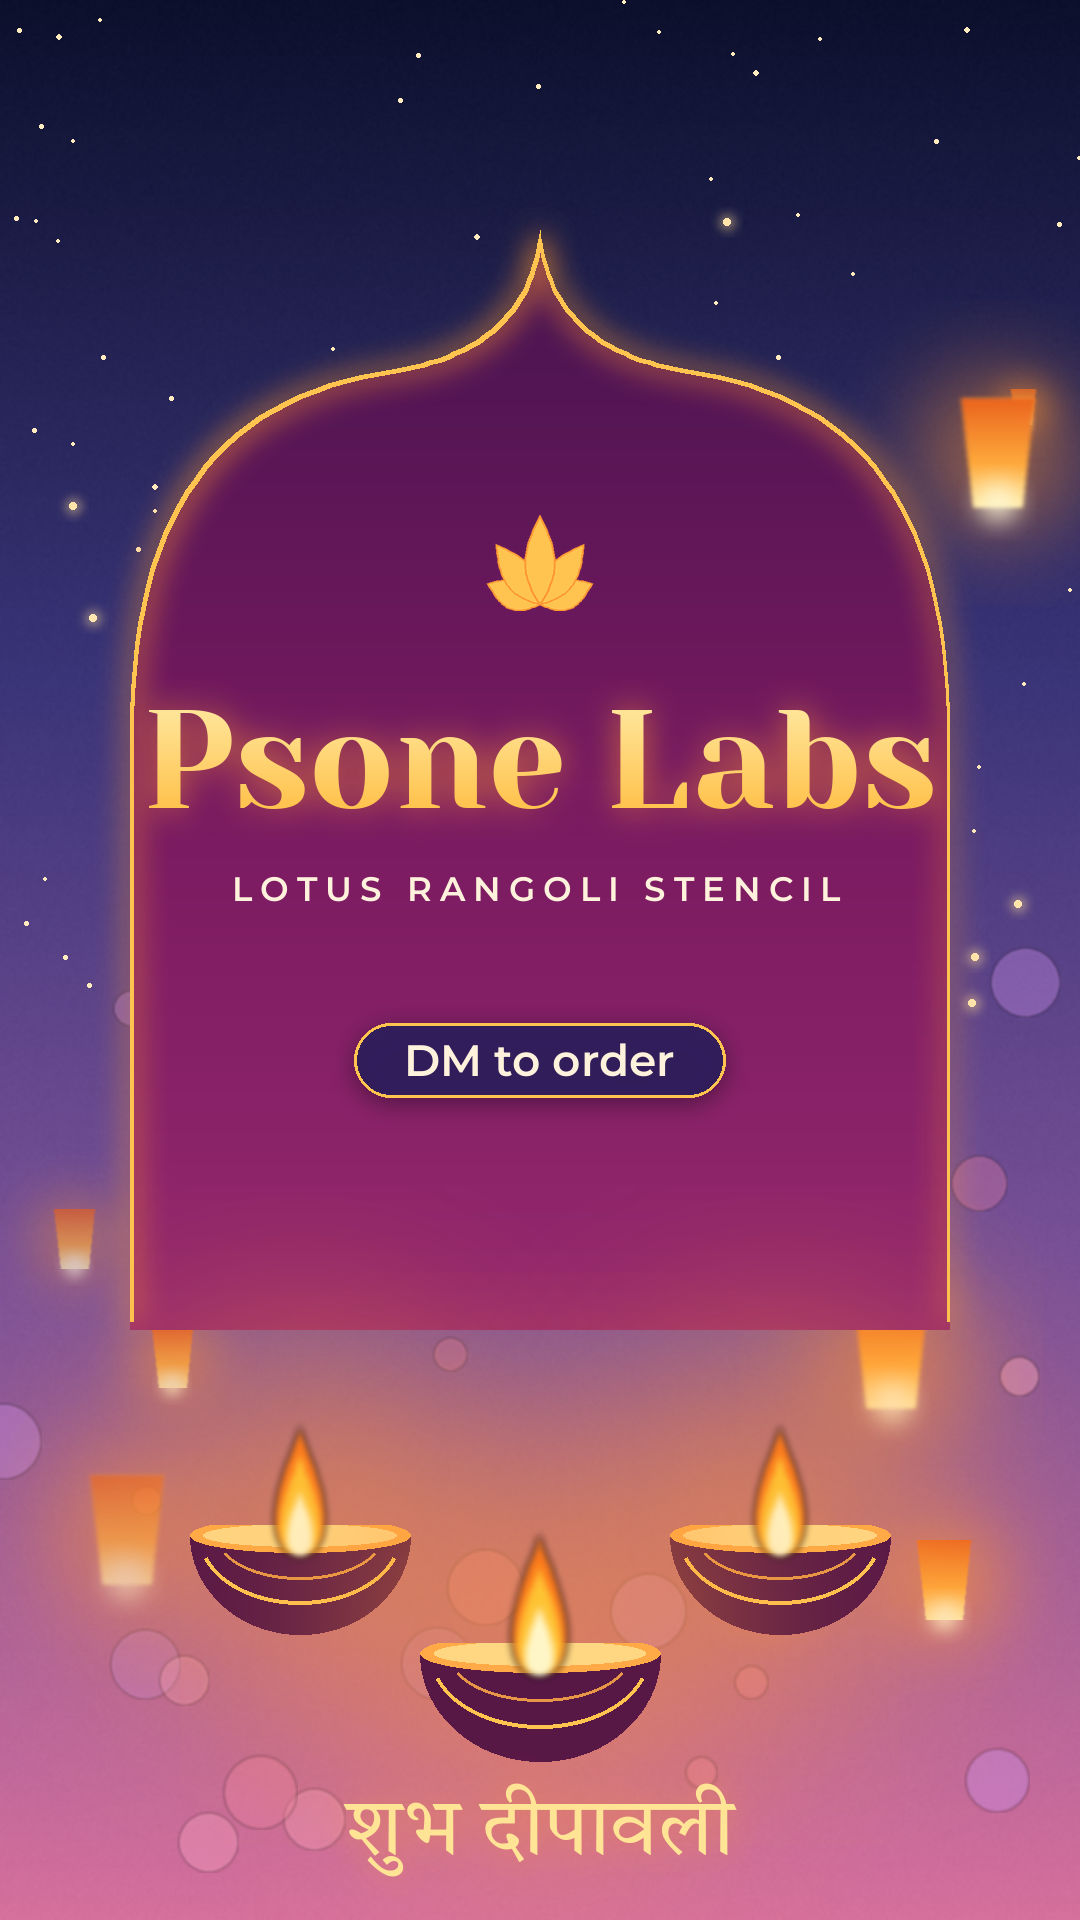
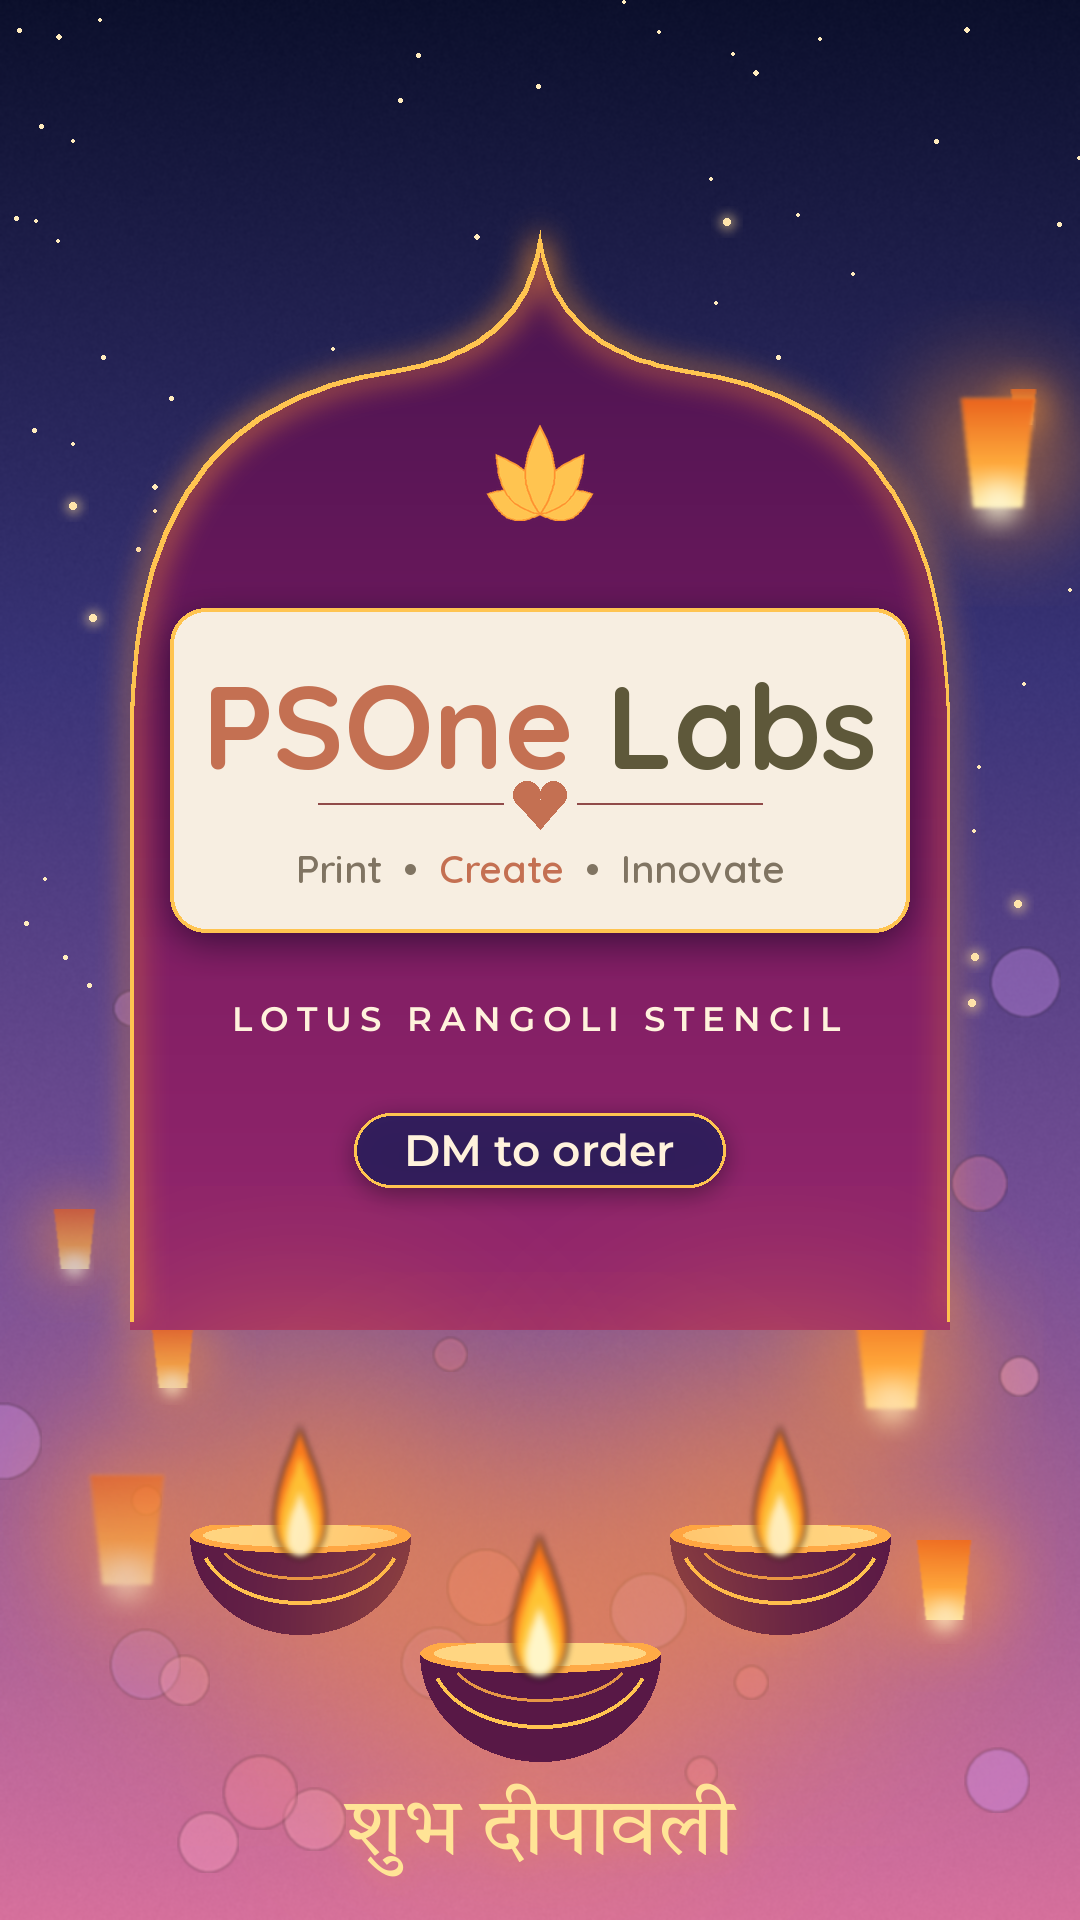
Lotus style frames: PSOne Labs brand lock-up and spelling
Claude-Session: https://claude.ai/code/session_01TVCvQsL4S7ttCtVD8bcYk5

Changed region(s): [[0.1222, 0.2188, 0.8861, 0.5], [0.3056, 0.5312, 0.6722, 0.625]]

diff --git a/tools/style_frames_lotus01.py b/tools/style_frames_lotus01.py
@@ -4,7 +4,7 @@ usage: cd tools && python3 style_frames_lotus01.py <workdir> <outdir>
 <workdir>/src holds L3.mp4 L4.mp4 L5.mp4 (VID-20261025-WA0003/4/5), plus fonts/ and music/ as for render_reel01_night.py.
 """
 import os, subprocess, sys
-from PIL import Image
+from PIL import Image, ImageDraw, ImageFont
 
 import render_diwali01 as R
 import render_reel01_night as N
@@ -12,6 +12,46 @@ import style_frames_teaser01 as T
 from render_diwali01 import W, H, paste_center
 
 BASE, OUTDIR = sys.argv[1], sys.argv[2]
+
+
+TERRA = (196, 112, 82)    # PSOne Labs brand terracotta
+OLIVE = (94, 88, 58)       # brand olive
+TAUPE = (128, 116, 98)
+BEIGE = (247, 238, 225)
+
+
+def quick(size, bold=True):
+    return ImageFont.truetype(f"{BASE}/fonts/quicksand_{'b' if bold else 'sb'}.ttf", size)
+
+
+def brand_card(w=740):
+    """PSOne Labs logo lock-up as on the brand's own posts: terracotta 'PSOne' + olive 'Labs' on warm beige,
+    a heart divider and 'Print • Create • Innovate'; thin gold edge so it sits in the night style."""
+    h = int(w * 0.44)
+    im = Image.new("RGBA", (w, h), (0, 0, 0, 0))
+    d = ImageDraw.Draw(im)
+    d.rounded_rectangle((0, 0, w - 1, h - 1), radius=36, fill=BEIGE + (255,), outline=T.GOLD + (255,), width=4)
+    f1 = quick(int(w * 0.16))
+    a, b = "PSOne", " Labs"
+    wa, wb = d.textlength(a, font=f1), d.textlength(b, font=f1)
+    x0, y = (w - wa - wb) / 2, h * 0.36
+    d.text((x0, y), a, font=f1, fill=TERRA, anchor="lm")
+    d.text((x0 + wa, y), b, font=f1, fill=OLIVE, anchor="lm")
+    yd = h * 0.6
+    d.line((w * 0.2, yd, w * 0.45, yd), fill=TERRA + (160,), width=2)
+    d.line((w * 0.55, yd, w * 0.8, yd), fill=TERRA + (160,), width=2)
+    r = w * 0.018  # heart
+    d.ellipse((w / 2 - 2 * r, yd - 1.6 * r, w / 2, yd + 0.4 * r), fill=TERRA)
+    d.ellipse((w / 2, yd - 1.6 * r, w / 2 + 2 * r, yd + 0.4 * r), fill=TERRA)
+    d.polygon([(w / 2 - 1.95 * r, yd - 0.2 * r), (w / 2 + 1.95 * r, yd - 0.2 * r), (w / 2, yd + 2 * r)], fill=TERRA)
+    f2 = quick(int(w * 0.054), bold=False)
+    parts = [("Print", TAUPE), ("  •  ", TAUPE), ("Create", TERRA), ("  •  ", TAUPE), ("Innovate", TAUPE)]
+    tw = sum(d.textlength(t, font=f2) for t, _ in parts)
+    x, y2 = (w - tw) / 2, h * 0.8
+    for t, c in parts:
+        d.text((x, y2), t, font=f2, fill=c, anchor="lm")
+        x += d.textlength(t, font=f2)
+    return R.with_shadow(im, offset=(0, 10), blur=18, alpha=150, color=(10, 4, 30))
 
 
 def still(name, t):
@@ -42,7 +82,7 @@ def frame_printer():
     f.alpha_composite(N.night_frame(aw, ah, ay, 25))
     paste_center(f, T.glow_text("Pesh hai hamara", T.allura(110), T.CREAM, glow=(255, 220, 160), ga=90), W / 2, 210)
     paste_center(f, T.glow_text("Lotus Stencil", T.yeseva(130), (T.GOLD_L, T.GOLD)), W / 2, 350)
-    paste_center(f, N.chip("Designed & 3D printed by Psone Labs", T.mont(30)), W / 2, 1810)
+    paste_center(f, N.chip("Designed & 3D printed by PSOne Labs", T.mont(30)), W / 2, 1810)
     return f
 
 
@@ -64,10 +104,10 @@ def frame_end():
     N.TT.Lanterns(9, 13, 300, 1600, avoid=(120, 250, 960, 1350)).draw(f, 0.0)
     arch = T.gold_arch(820, 1100, [(70, 20, 80), (120, 26, 96), (150, 40, 110)])
     f.alpha_composite(arch, ((W - arch.width) // 2, 230 - 60))
-    paste_center(f, N.lotus(0.6), W / 2, 560)
-    paste_center(f, T.glow_text("Psone Labs", T.yeseva(140), (T.GOLD_L, T.GOLD)), W / 2, 760)
-    paste_center(f, T.glow_text("LOTUS RANGOLI STENCIL", T.mont(34), T.CREAM, ga=0, track=8), W / 2, 890)
-    paste_center(f, N.chip("DM to order", T.mont(44), pad=(50, 20)), W / 2, 1060)
+    paste_center(f, N.lotus(0.6), W / 2, 470)
+    paste_center(f, brand_card(), W / 2, 770)
+    paste_center(f, T.glow_text("LOTUS RANGOLI STENCIL", T.mont(34), T.CREAM, ga=0, track=8), W / 2, 1020)
+    paste_center(f, N.chip("DM to order", T.mont(44), pad=(50, 20)), W / 2, 1150)
     for k, (x, y, w) in enumerate(((300, 1560, 220), (780, 1560, 220), (540, 1680, 240))):
         T.diya_glow(f, x, y, w)
     paste_center(f, T.glow_text("शुभ दीपावली", T.tiro(80), T.GOLD_L, ga=120), W / 2, 1830)

diff --git a/diwali-02-lotus-stencil/script_hinglish.md b/diwali-02-lotus-stencil/script_hinglish.md
@@ -1,4 +1,4 @@
-# Diwali 02 — Lotus Rangoli Stencil (Psone Labs)
+# Diwali 02 — Lotus Rangoli Stencil (PSOne Labs)
 
 Vertical 9:16, ~26s, for Instagram Reels (also YouTube Shorts / Facebook Reels). Posted 25 Oct 2026, the day after the Kalash reel,
 so it opens with "New day, new product!". Same night style as the Kalash reel and teaser (night-blue sky to purple/pink,
@@ -12,7 +12,7 @@ The creator records the voiceover; the reel goes out voice-only and music is add
 |---|---|---|---|
 | 1 | 0.0–2.6 | New day, new product! | "NEW DAY," / "new product!" / chip "Lotus Rangoli Stencil" |
 | 2 | 2.6–6.4 | Is Diwali, aapke aangan mein khilega kamal. | "Is Diwali, aangan mein" / "khilega kamal" + gold lotus icon |
-| 3 | 6.4–11.4 | Pesh hai hamara Lotus Rangoli Stencil, khud design kiya aur 3D print kiya. | "Pesh hai hamara" / "Lotus Stencil" / chip "Designed & 3D printed by Psone Labs" |
+| 3 | 6.4–11.4 | Pesh hai hamara Lotus Rangoli Stencil, khud design kiya aur 3D print kiya. | "Pesh hai hamara" / "Lotus Stencil" / chip "Designed & 3D printed by PSOne Labs" |
 | 4 | 11.4–15.4 | Ekdum unique kamal design, Diwali ke liye perfect. | "Unique kamal design" / chip "Diwali special" |
 | 5 | 15.4–21.4 | Bas stencil rakho, rang bharo, aur sundar kamal rangoli ready! | "Bas 3 steps!" / chips 1-2-3 / "Perfect rangoli!" |
 | 6 | 21.4–26.0 | Diwali se pehle apna order karo, abhi DM karo! | "Diwali se pehle" / "order karo!" / "DM to order", then end card |
@@ -26,14 +26,18 @@ Devanagari for recording: `voiceover_devanagari.txt`.
 2. **Kamal (2.6–6.4s)**: three printed lotuses on the printer bed (WA0003 0–3s) in the arch, slow push-in. "Is Diwali, aangan mein"
    writes on, "khilega kamal" glows, a small gold lotus opens beside it. Kandils sway at the sides.
 3. **Introducing (6.4–11.4s)**: printer bed with lotuses (WA0004 0–6s) in the arch. "Pesh hai hamara / Lotus Stencil";
-   badge "Designed & 3D printed by Psone Labs".
+   badge "Designed & 3D printed by PSOne Labs".
 4. **Product (11.4–15.4s)**: hand-held white lotus in slow motion (WA0004 8–14s), whole stencil fitted in a tall arch.
    "Unique kamal design", chip "Diwali special", soft gold line fireworks.
 5. **Steps (15.4–21.4s)**: "1 Stencil rakho" on the white stencil (WA0003 5–8s, hand-held); "2 Rang bharo" on the real filling shot
    (WA0005 0–4s); "3 Rangoli ready!" on the finished lotus rangoli (WA0005 6–9s) with "Perfect rangoli!" and line fireworks.
    This ~4s is the only coloured footage.
 6. **CTA + end card (21.4–26s)**: white lotus (WA0004) with "Diwali se pehle order karo!" and a pulsing "DM to order"; then the dusk
-   end card: gold lotus, Psone Labs, LOTUS RANGOLI STENCIL, DM to order, three diyas, शुभ दीपावली, fade out.
+   end card: gold lotus, the PSOne Labs logo card, LOTUS RANGOLI STENCIL, DM to order, three diyas, शुभ दीपावली, fade out.
+
+Brand (from the client's own posts, `style_frames/reference_psone_labs_brand.jpg`): written **PSOne Labs**, tagline
+"Print • Create • Innovate"; terracotta "PSOne" + olive "Labs" on warm beige, rounded type (Quicksand used here).
+The end card carries that lock-up on a beige card with a thin gold edge so it sits in the night style.
 
 Style frames: `style_frames/` (hook, printer, steps, end card). Regenerate with
 `cd tools && python3 style_frames_lotus01.py <workdir> <outdir>`.
